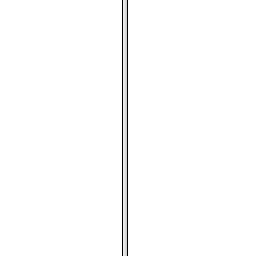
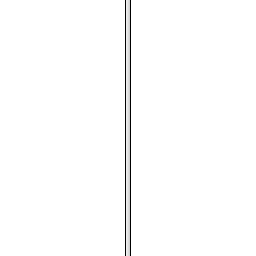
add barline render

Changed region(s): [[0.4688, 0.0, 0.5312, 1.0]]

diff --git a/web/src/js/game/note.js b/web/src/js/game/note.js
@@ -6,10 +6,19 @@ var Layout = {
         left: 412 / 1280,
         length: 868 / 1280,
     },
-    width: 70 / 1280,
-    height: 70 / 720,
-    daiWidth: 110 / 1280,
-    daiHeight: 110 / 720,
+    barline: {
+        top: 193 / 720,
+        width: 256 / 1280,
+        height: 161 / 720,
+    },
+    note: {
+        width: 70 / 1280,
+        height: 70 / 720,
+    },
+    daiNote: {
+        width: 110 / 1280,
+        height: 110 / 720,
+    },
 };
 
 export class Note {
@@ -22,8 +31,25 @@ export class Note {
     }
 
     render(state) {
-        for (let i = state.nextBeats.length - 1; i >= 0; i--) {
-            let beat = state.nextBeats[i];
+        this.renderBarline(state.barline);
+        this.renderBeats(state.nextBeats);
+    }
+
+    renderBarline(distance) {
+        let x = Layout.line.left;
+        x += distance * Layout.line.length;
+        x -= Layout.barline.width * 0.5;
+
+        let y = Layout.barline.top;
+        
+        this.sticker.stick('barline', 
+            x, y, 
+            Layout.barline.width, Layout.barline.height);
+    }
+    
+    renderBeats(beats) {
+        for (let i = beats.length - 1; i >= 0; i--) {
+            let beat = beats[i];
             switch (beat.type) {
                 case BeatType.DO:
                     this.note('do', beat.distance);
@@ -38,42 +64,35 @@ export class Note {
                     this.daiNote('ka', beat.distance);
                     break;
             }
-
-            let dstX = Layout.line.left;
-            dstX += beat.distance * Layout.line.length;
-            dstX -= Layout.width * 0.5;
-
-            let dstY = Layout.line.height;
-            dstY -= Layout.height * 0.5;
         }
     }
-        
+
     note(tag, distance) {
         let x =  Layout.line.left;
         x += distance * Layout.line.length;
-        x -= Layout.width * 0.5;
+        x -= Layout.note.width * 0.5;
 
         let y = Layout.line.height;
-        y -= Layout.height * 0.5;
+        y -= Layout.note.height * 0.5;
 
         this.sticker.stick(
             tag,
             x, y,
-            Layout.width, Layout.height);
+            Layout.note.width, Layout.note.height);
     }
 
     daiNote(tag, distance) {
         let x =  Layout.line.left;
         x += distance * Layout.line.length;
-        x -= Layout.daiWidth * 0.5;
+        x -= Layout.daiNote.width * 0.5;
 
         let y = Layout.line.height;
-        y -= Layout.daiHeight * 0.5;
+        y -= Layout.daiNote.height * 0.5;
 
         this.sticker.stick(
             tag,
             x, y,
-            Layout.daiWidth, Layout.daiHeight);
+            Layout.daiNote.width, Layout.daiNote.height);
     }
 
 

diff --git a/web/src/js/game/referee.js b/web/src/js/game/referee.js
@@ -10,7 +10,7 @@ export class Referee {
         this.audioPlayer = audioPlayer;
         this.endCallback = callback;
         this.index = {
-            measure: 0,
+            measure: 0, 
             balloon: 0,
             beat: 0,
         }
@@ -120,7 +120,6 @@ export class Referee {
             return;
         }
      
-     
     }
 
     checkSimpleBeat(key) {
@@ -176,7 +175,7 @@ export class Referee {
     update(delta) {
         this.checkMusic(delta);
         this.updateNextBeats(delta);
-
+        this.updateBarLines(delta);
     }
 
     checkMusic(delta) {
@@ -201,14 +200,6 @@ export class Referee {
             }
         } else {
         }
-    }
-
-    readState(delta) {
-        this.checkMusic(delta);
-        this.updateNextBeats(delta);
-        this.updateBarLines(delta);
-
-        return this.state;
     }
 
     checkMusic(delta) {
@@ -258,8 +249,14 @@ export class Referee {
     }
 
     updateBarLines(delta) {
-        let currentMeasure = this.music.measures[this.index.measure];
-        this.state.barline = (delta - currentMeasure) / currentMeasure.duration;
+        if (this.index.measure + 1 < this.music.measures.length) {
+            let currentMeasure = this.music.measures[this.index.measure];
+            let nextMeasure = this.music.measures[this.index.measure + 1];
+            this.state.barline = (nextMeasure.start - delta) / currentMeasure.duration;
+            if (this.state.barline > 1) {
+                this.state.barline -= 1;
+            }
+        }
     }
 
     closeBeat(delta) {

diff --git a/web/src/js/game/plotter.js b/web/src/js/game/plotter.js
@@ -32,6 +32,11 @@ export class Plotter {
         this.enable = true;
         this.startTime = performance.now() - offset;
         requestAnimationFrame(this.render);
+
+        setInterval(() => {
+            console.log('fps=' + this.fps);
+            
+        }, 2000);
     }
 
     pause() {
@@ -50,6 +55,8 @@ export class Plotter {
     }
 
     render(now) {
+        let start = performance.now();
+
         let gl = this.gl;
         resizeCanvasToDisplySize(gl.canvas);
         gl.viewport(0, 0, gl.canvas.width, gl.canvas.height);
@@ -67,7 +74,7 @@ export class Plotter {
         let state = this.referee.state;
         this.note.render(state);
 
-        this.fps = 1 / (performance.now() - now);
+        this.fps = 1000 / (performance.now() - start);
         if (this.enable) {
             requestAnimationFrame(this.render);
         }
